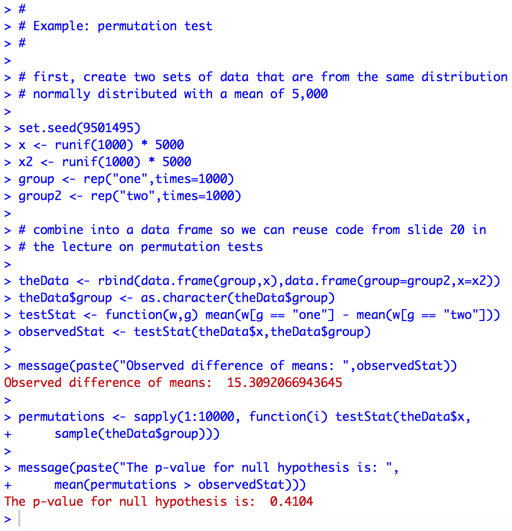
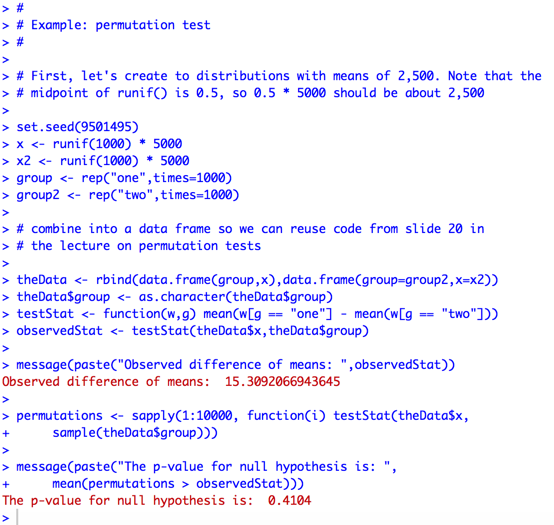
Correct typo on means.

Changed region(s): [[0.0, 0.0, 1.0, 1.0]]

diff --git a/markdown/statinf-permutationTests.md b/markdown/statinf-permutationTests.md
@@ -8,13 +8,13 @@ If we have a variable *x* and two groups *A* and *B*, the permutation test evalu
 
 The last line of code on slide 20 is the probability value associated with the null hypothesis. If this is less than alpha \(the rejection region\), we reject the null hypothesis that the two groups come from the same distribution.
 
-For example, let's build some sample data containing two groups of normally distributed values with means of 5,000 and run the permutation test.
+For example, let's build some sample data containing two groups of normally distributed values with means of 2,500 and run the permutation test.
 
 <img src="./images/statinf-permutationTests01.png">
 
 Notice that the probability value is *> 0.05*. Therefore, we would fail to reject the null hypothesis at alpha = 0.05 that the two groups came from the same distribution, and conclude that the two groups do in fact come from the same underlying distribution.
 
-Now, let's change the data so that the second group has a mean of 50 instead of 5,000 and rerun the test.
+Now, let's change the data so that the second group has a mean of 50 instead of 2,500 and rerun the test.
 
 <img src="./images/statinf-permutationTests02.png">
 
